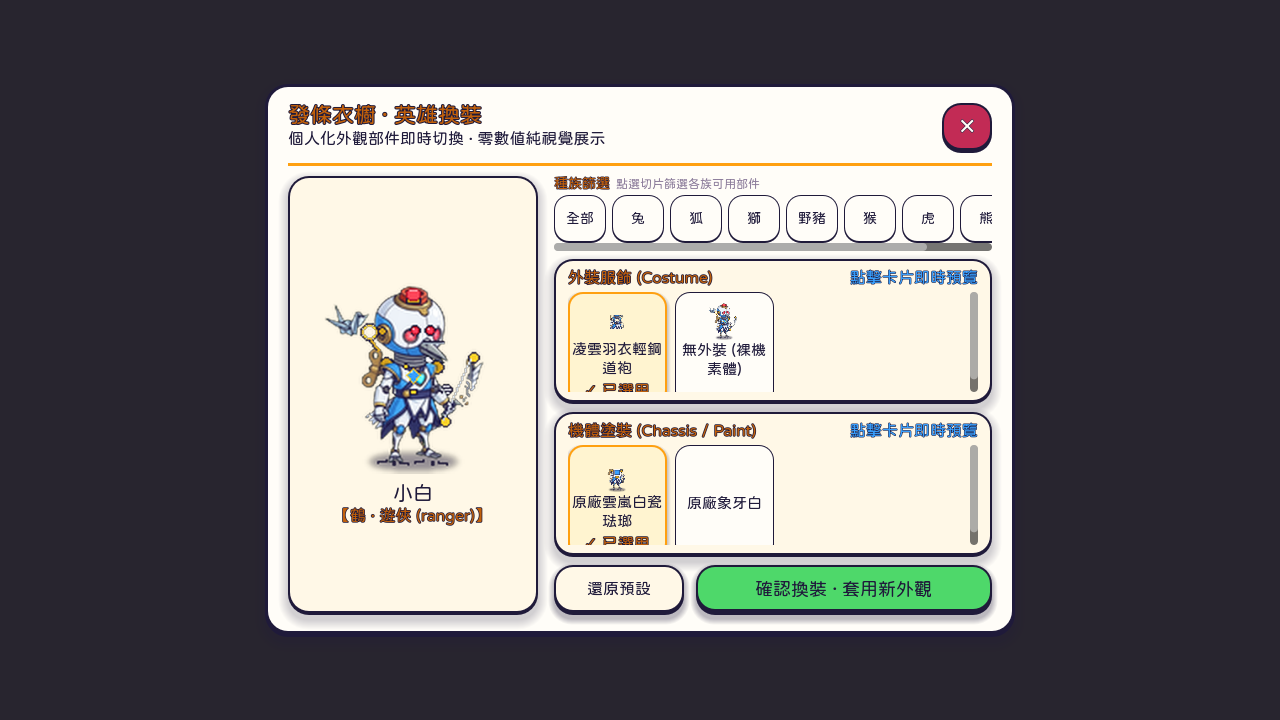
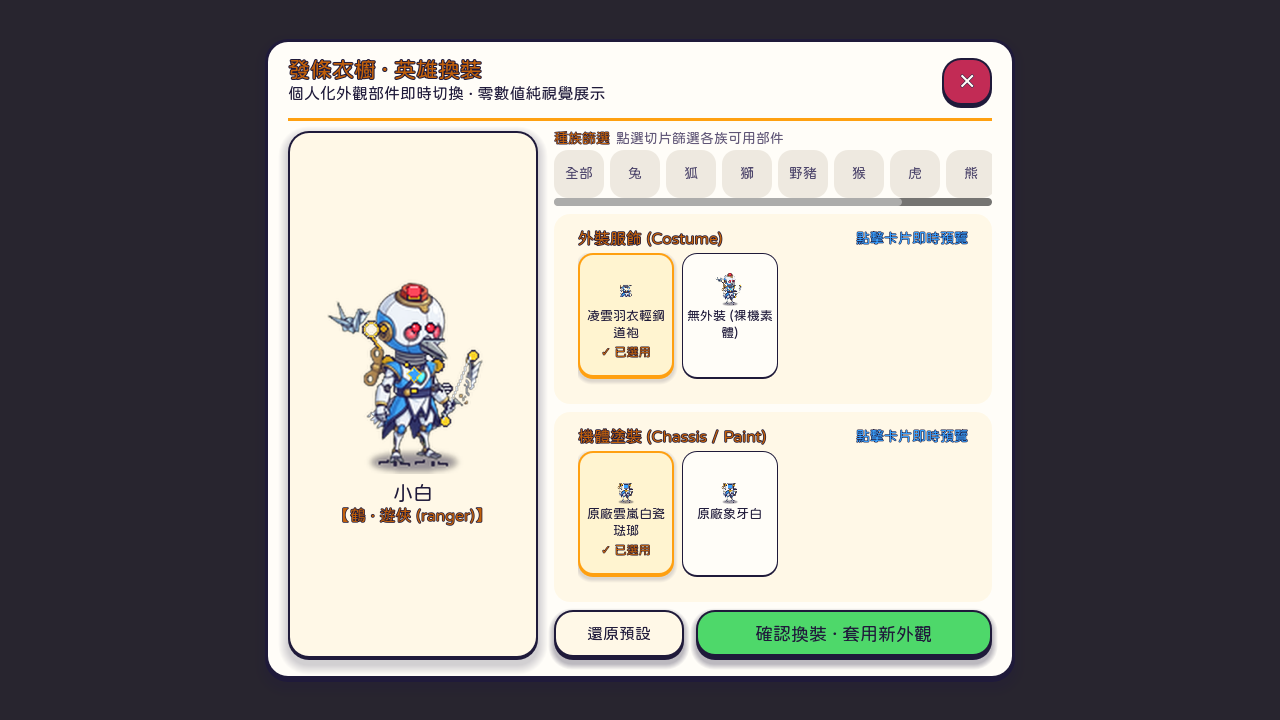
feat(ui): 蒸汽企鵝切片就緒，加回衣櫥種族篩選列與全部清單 (t_9a04be75)
- wardrobe_dialog.gd: RACE_FILTER_OPTIONS 加回企鵝 chip，target_races 加回 penguin，移除過期警語註解
- wardrobe_dialog.gd: _get_item_thumbnail 補齊 penguin 外裝/塗裝貼圖映射與象牙白降級，解決縮圖為 NULL 問題
- paperdoll_select_demo.gd: RACE_KEYS 與 filter chips 同步補齊 penguin，並修正外裝 id 為 costume_navigator_harness
- proofs: 產出 proof_wardrobe_filter_penguin.png 與對比圖 proof_wardrobe_filter_comparison.png

Changed region(s): [[0.1875, 0.0611, 0.8125, 0.9472], [0.25, 0.3972, 0.375, 0.6417]]

diff --git a/tools/create_filter_comparison.py b/tools/create_filter_comparison.py
@@ -8,23 +8,24 @@ import os
 from PIL import Image, ImageDraw, ImageFont
 
 def main():
-    screenshots_dir = "/opt/side/bravesoul-game/screenshots"
+    screenshots_dir = "/opt/side/bravesoul-game/proofs/wardrobe_race_filter"
     path_all = os.path.join(screenshots_dir, "proof_wardrobe_filter_all.png")
-    path_bear = os.path.join(screenshots_dir, "proof_wardrobe_filter_bear.png")
-    path_out = os.path.join(screenshots_dir, "proof_wardrobe_filter_comparison.png")
+    path_penguin = os.path.join(screenshots_dir, "proof_wardrobe_filter_penguin.png")
+    path_out = "/opt/side/bravesoul-game/proofs/proof_wardrobe_filter_comparison.png"
+    path_out_sub = os.path.join(screenshots_dir, "proof_wardrobe_filter_comparison.png")
 
-    if not os.path.exists(path_all) or not os.path.exists(path_bear):
-        print(f"Error: Missing input screenshots {path_all} or {path_bear}")
+    if not os.path.exists(path_all) or not os.path.exists(path_penguin):
+        print(f"Error: Missing input screenshots {path_all} or {path_penguin}")
         return
 
     img_all = Image.open(path_all).convert("RGB")
-    img_bear = Image.open(path_bear).convert("RGB")
+    img_penguin = Image.open(path_penguin).convert("RGB")
 
     w, h = img_all.size
     # 縮小為 960x540 並排
     target_w, target_h = 960, 540
     resized_all = img_all.resize((target_w, target_h), Image.Resampling.LANCZOS)
-    resized_bear = img_bear.resize((target_w, target_h), Image.Resampling.LANCZOS)
+    resized_penguin = img_penguin.resize((target_w, target_h), Image.Resampling.LANCZOS)
 
     banner_h = 60
     total_w = target_w * 2 + 20
@@ -35,7 +36,7 @@ def main():
 
     # 貼上兩張圖
     canvas.paste(resized_all, (10, banner_h + 10))
-    canvas.paste(resized_bear, (target_w + 10, banner_h + 10))
+    canvas.paste(resized_penguin, (target_w + 10, banner_h + 10))
 
     # 畫標題條
     draw.rectangle([10, 10, target_w, banner_h], fill=(255, 208, 40)) # 金黃
@@ -46,6 +47,7 @@ def main():
     draw.rectangle([target_w + 10, banner_h + 10, total_w - 10, total_h - 10], outline=(78, 216, 106), width=3)
 
     canvas.save(path_out)
+    canvas.save(path_out_sub)
     print(f"Successfully generated comparison screenshot at: {path_out}")
 
 if __name__ == "__main__":
